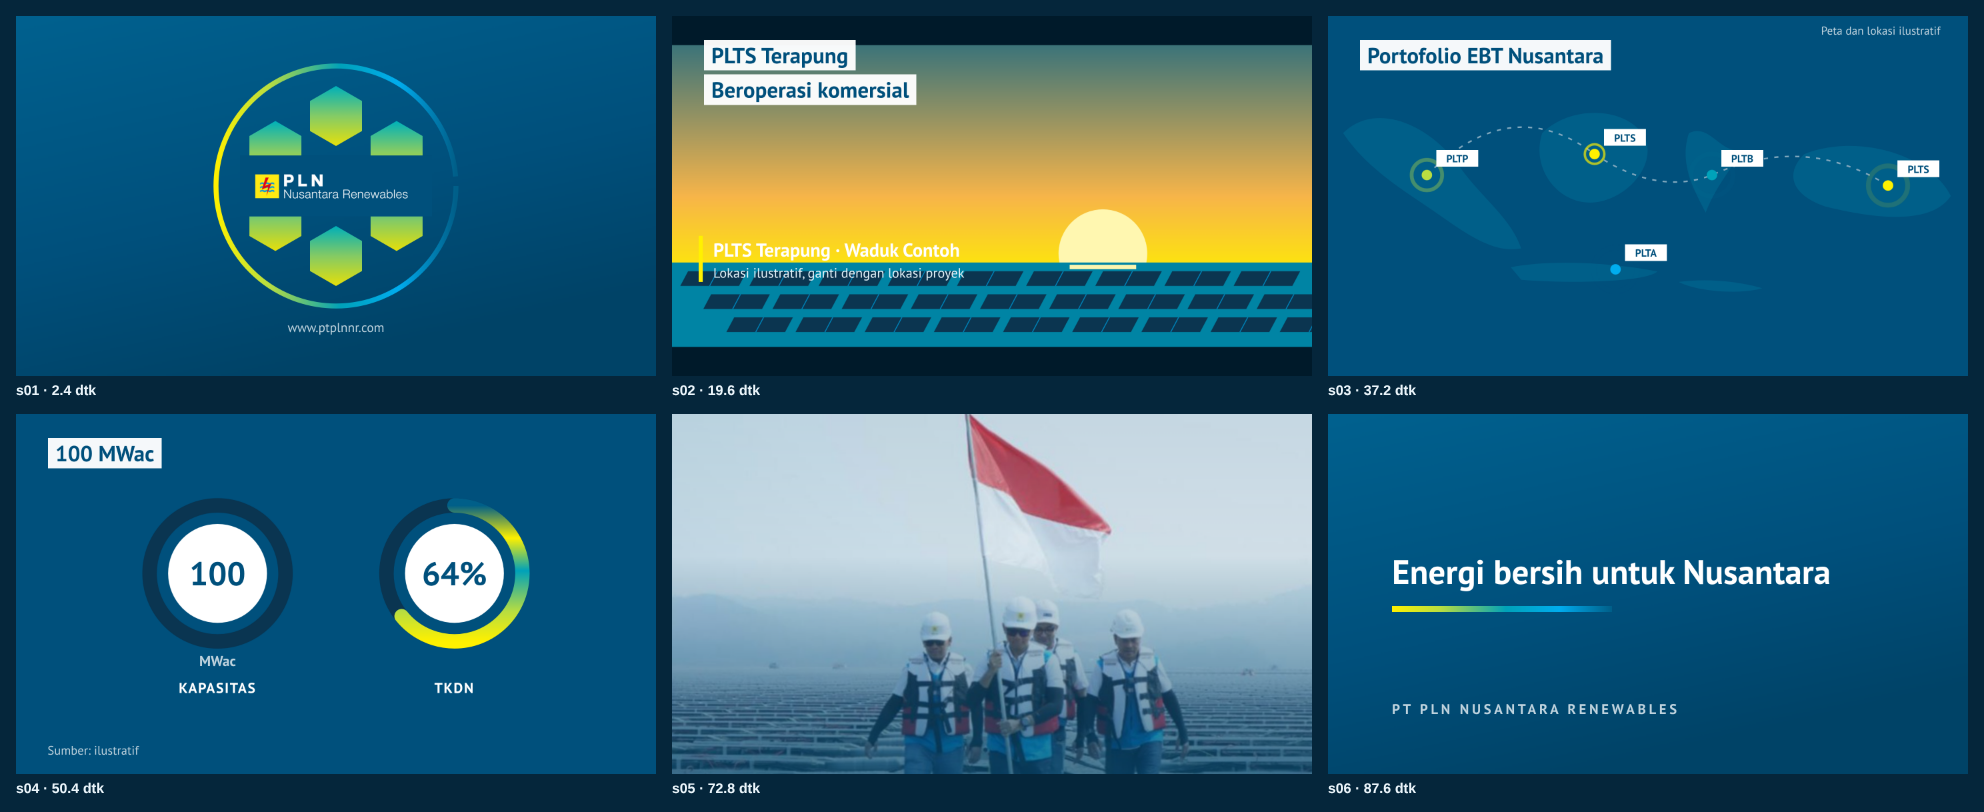
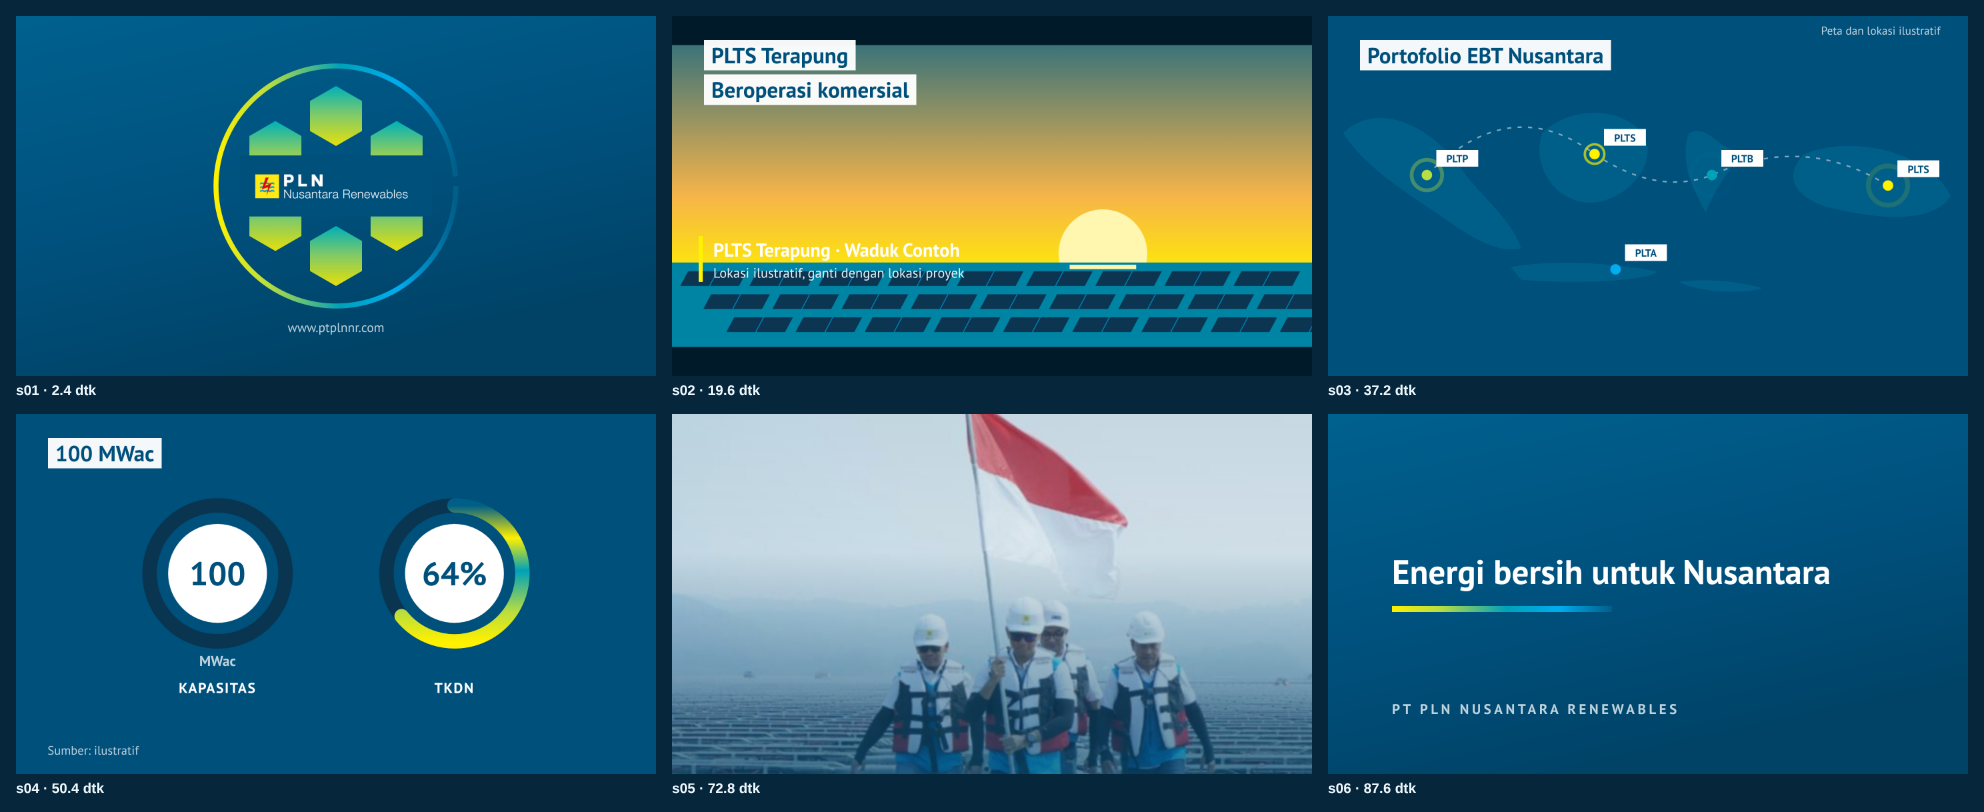
Ken Burns camera for footage scenes
- footage scenes zoom continuously 1.04 -> 1.16 with a 3% horizontal drift (direction alternates per scene)
  plus 1.5% stepped accents per beat; start zoom covers the drift so no empty edge is revealed

Claude-Session: https://claude.ai/code/session_0146VNwL9wkhvz5nyYxxoYe6

Changed region(s): [[0.3438, 0.7389, 0.6562, 0.9544], [0.4688, 0.4926, 0.5625, 0.6773]]

diff --git a/pln-nr-motion-gallery/examples/cod-plts-terapung/animatic.html b/pln-nr-motion-gallery/examples/cod-plts-terapung/animatic.html
@@ -1652,7 +1652,7 @@ ${d.name ? '' : X(600, 340, 10, 'FOOTAGE PLACEHOLDER', '#E6F4FB', 700, 'text-anc
       // lockup: reveal bermasker kiri ke kanan setelah cincin hexagon tertutup
       L.querySelectorAll('.lockup').forEach(el => el.animate([{ clipPath: 'inset(0 100% 0 0)', transform: 'translate(-50%,-50%) scale(.96)' }, { clipPath: 'inset(0 0 0 0)', transform: 'translate(-50%,-50%) scale(1)' }], { duration: 650, delay: 1150, easing: 'cubic-bezier(.16,1,.3,1)', fill: 'backwards' }));
       L.querySelectorAll('[data-count]').forEach(el => { el.dataset.orig = el.textContent; });
-      return { el: L, sc, s, beats, cam: L.querySelector('.cam'), camKeys: cameraKeys(beats, dur), svgs: [...L.querySelectorAll('svg')], vids: [...L.querySelectorAll('video.foot')], plan: null };
+      return { el: L, sc, s, beats, cam: L.querySelector('.cam'), camKeys: cameraKeys(beats, dur), svgs: [...L.querySelectorAll('svg')], vids: [...L.querySelectorAll('video.foot')], idx: i, plan: null };
     });
     const band = document.createElement('div'); band.className = 'tx-band'; stage.append(band);
     const dip = document.createElement('div'); dip.className = 'tx-dip'; stage.append(dip);
@@ -1701,7 +1701,17 @@ ${d.name ? '' : X(600, 340, 10, 'FOOTAGE PLACEHOLDER', '#E6F4FB', 700, 'text-anc
       // kamera: push-in bertahap per beat + reframe kiri/kanan (mode expressive)
       if (ly.cam) {
         if (NO_CAM.has(ly.sc.style)) { ly.cam.style.transform = 'none'; return; }
-        const c = CAM[ly.sc.mode] || CAM.productive, ks = ly.camKeys, d = ly.sc.dur;
+        const d = ly.sc.dur, ks = ly.camKeys;
+        if (ly.sc.footage) {
+          // Ken Burns untuk footage: zoom kontinu 1,04 → 1,16 + geser horizontal 3% (arah bergantian per adegan),
+          // ditambah aksen zoom bertahap 1,5% di setiap beat. Footage tanpa teks di tepi, jadi aman di-crop.
+          const u = clamp(local / d), dir = ly.idx % 2 ? -1 : 1;
+          let z = 1.04 + .12 * u;   // mulai 1,04 agar geser 1,5% tidak pernah memperlihatkan tepi kosong
+          ks.forEach((k0, i) => { if (i) z += .015 * EASE.standard(clamp((local - k0) / 1.2)); });
+          ly.cam.style.transform = `translateX(${(dir * 3 * (u - .5)).toFixed(3)}%) scale(${z.toFixed(4)})`;
+          return;
+        }
+        const c = CAM[ly.sc.mode] || CAM.productive;
         // dorongan kontinu (ease masuk/keluar hanya 1 dtk di tepi) agar tidak pernah benar-benar diam
         const u = clamp(local / d), edge = Math.min(1, local / 1, (d - local) / 1);
         let z = 1 + c.zoom * u, x = 0;

diff --git a/skills/pln-nr-explainer-studio/engine/runtime.js b/skills/pln-nr-explainer-studio/engine/runtime.js
@@ -102,7 +102,7 @@
       // lockup: reveal bermasker kiri ke kanan setelah cincin hexagon tertutup
       L.querySelectorAll('.lockup').forEach(el => el.animate([{ clipPath: 'inset(0 100% 0 0)', transform: 'translate(-50%,-50%) scale(.96)' }, { clipPath: 'inset(0 0 0 0)', transform: 'translate(-50%,-50%) scale(1)' }], { duration: 650, delay: 1150, easing: 'cubic-bezier(.16,1,.3,1)', fill: 'backwards' }));
       L.querySelectorAll('[data-count]').forEach(el => { el.dataset.orig = el.textContent; });
-      return { el: L, sc, s, beats, cam: L.querySelector('.cam'), camKeys: cameraKeys(beats, dur), svgs: [...L.querySelectorAll('svg')], vids: [...L.querySelectorAll('video.foot')], plan: null };
+      return { el: L, sc, s, beats, cam: L.querySelector('.cam'), camKeys: cameraKeys(beats, dur), svgs: [...L.querySelectorAll('svg')], vids: [...L.querySelectorAll('video.foot')], idx: i, plan: null };
     });
     const band = document.createElement('div'); band.className = 'tx-band'; stage.append(band);
     const dip = document.createElement('div'); dip.className = 'tx-dip'; stage.append(dip);
@@ -151,7 +151,17 @@
       // kamera: push-in bertahap per beat + reframe kiri/kanan (mode expressive)
       if (ly.cam) {
         if (NO_CAM.has(ly.sc.style)) { ly.cam.style.transform = 'none'; return; }
-        const c = CAM[ly.sc.mode] || CAM.productive, ks = ly.camKeys, d = ly.sc.dur;
+        const d = ly.sc.dur, ks = ly.camKeys;
+        if (ly.sc.footage) {
+          // Ken Burns untuk footage: zoom kontinu 1,04 → 1,16 + geser horizontal 3% (arah bergantian per adegan),
+          // ditambah aksen zoom bertahap 1,5% di setiap beat. Footage tanpa teks di tepi, jadi aman di-crop.
+          const u = clamp(local / d), dir = ly.idx % 2 ? -1 : 1;
+          let z = 1.04 + .12 * u;   // mulai 1,04 agar geser 1,5% tidak pernah memperlihatkan tepi kosong
+          ks.forEach((k0, i) => { if (i) z += .015 * EASE.standard(clamp((local - k0) / 1.2)); });
+          ly.cam.style.transform = `translateX(${(dir * 3 * (u - .5)).toFixed(3)}%) scale(${z.toFixed(4)})`;
+          return;
+        }
+        const c = CAM[ly.sc.mode] || CAM.productive;
         // dorongan kontinu (ease masuk/keluar hanya 1 dtk di tepi) agar tidak pernah benar-benar diam
         const u = clamp(local / d), edge = Math.min(1, local / 1, (d - local) / 1);
         let z = 1 + c.zoom * u, x = 0;
